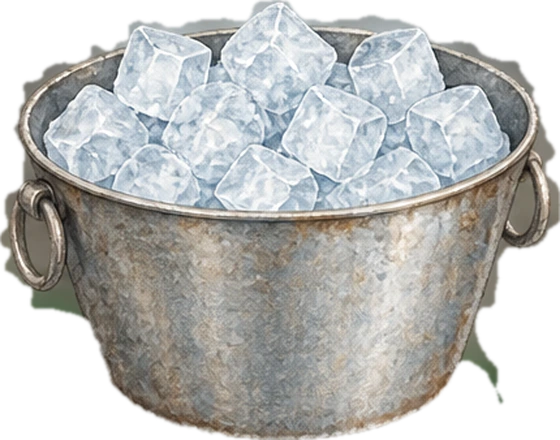
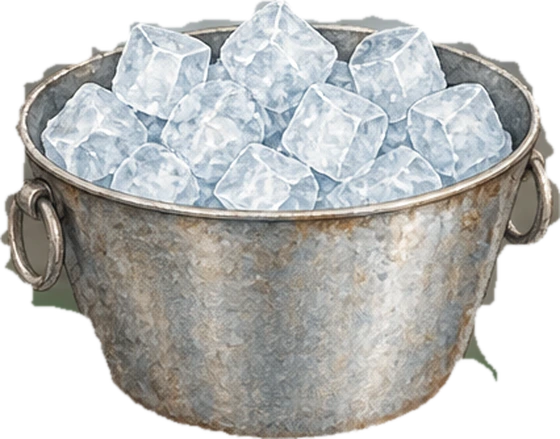
feat: realistic backgrounds and Codex equipment art for all activities, ice bath labels

diff --git a/components/minigames/SolubilityBottle.tsx b/components/minigames/SolubilityBottle.tsx
@@ -1,6 +1,6 @@
 'use client';
 
-import { StageBg } from '@/components/ui';
+import { GlassG, StageBg } from '@/components/ui';
 import { useEffect, useRef, useState } from 'react';
 import type { InvestigateProps } from '@/game/minigameTypes';
 import type { Substance } from '@/game/types';
@@ -23,27 +23,18 @@ const inRect = (px: number, py: number, r: { x: number; y: number; w: number; h:
 
 type Drag = { kind: 'spoon' | 'bottle'; x: number; y: number; dx: number; dy: number };
 
-function Icon({ s, size }: { s: Substance; size: number }) {
-  return (
-    // eslint-disable-next-line @next/next/no-img-element
-    <img src={`/assets/items/${s.id}.webp`} alt="" width={size} height={size}
-      onError={e => { e.currentTarget.style.display = 'none'; }}
-      style={{ position: 'absolute', inset: 0, width: size, height: size, objectFit: 'contain', pointerEvents: 'none' }} />
-  );
-}
-
 function BottleView({ b, s, stirring, x, y }: { b: Bottle; s: Substance; stirring: boolean; x: number; y: number }) {
   const settledH = Math.min(90, b.settled * 45);
   const specks = Math.round(b.pending / SCOOP_G);
   return (
     <svg width={HOME.w} height={HOME.h} viewBox="0 0 180 300" style={{ position: 'absolute', left: x, top: y, pointerEvents: 'none' }}>
-      <rect x="20" y="70" width="140" height="220" rx="18" fill="#cfe9f7" fillOpacity=".25" stroke="#e6f4fb" strokeWidth="4" />
-      <rect x="55" y="30" width="70" height="44" rx="6" fill="#cfe9f7" fillOpacity=".25" stroke="#e6f4fb" strokeWidth="4" />
-      <rect x="24" y="130" width="132" height="156" rx="14" fill="#5aa9e6" fillOpacity={0.55} />
-      <rect x="26" y={284 - settledH} width="128" height={settledH} rx="8" fill={s.color} />
-      {Array.from({ length: specks }).map((_, i) => (
-        <circle key={i} cx={50 + ((i * 37) % 80)} cy={140 + ((i * 23) % 60)} r="4" fill={s.color} />
-      ))}
+      <GlassG name="bottle" x={15} y={8} w={150} h={288}>
+        <rect x="0" y="130" width="180" height="170" fill="#5aa9e6" fillOpacity={0.6} />
+        <rect x="0" y={282 - settledH} width="180" height={settledH + 2} fill={s.color} />
+        {Array.from({ length: specks }).map((_, i) => (
+          <circle key={i} cx={50 + ((i * 37) % 80)} cy={140 + ((i * 23) % 60)} r="4" fill={s.color} />
+        ))}
+      </GlassG>
       <g style={{ transformOrigin: '90px 270px', animation: stirring ? 'sbspin .35s linear infinite' : undefined }}>
         <rect x="70" y="266" width="40" height="8" rx="4" fill="#fff" stroke="#556" />
       </g>
@@ -51,7 +42,7 @@ function BottleView({ b, s, stirring, x, y }: { b: Bottle; s: Substance; stirrin
   );
 }
 
-function Pad({ x, y, onRub, active, hint }: { x: number; y: number; onRub: () => void; active: boolean; hint: boolean }) {
+function Pad({ x, y, onRub, hint }: { x: number; y: number; onRub: () => void; hint: boolean }) {
   const acc = useRef(0);
   const last = useRef<{ x: number; y: number } | null>(null);
   const [fill, setFill] = useState(0);
@@ -62,7 +53,7 @@ function Pad({ x, y, onRub, active, hint }: { x: number; y: number; onRub: () =>
   const end = () => { last.current = null; };
   return (
     <div
-      style={{ position: 'absolute', left: x, top: y, width: 220, height: 90, touchAction: 'none', cursor: 'grab' }}
+      style={{ position: 'absolute', left: x, top: y, width: 220, height: 130, touchAction: 'none', cursor: 'grab' }}
       onPointerDown={e => { e.currentTarget.setPointerCapture(e.pointerId); last.current = pt(e); }}
       onPointerMove={e => {
         if (!last.current) return;
@@ -74,11 +65,10 @@ function Pad({ x, y, onRub, active, hint }: { x: number; y: number; onRub: () =>
       }}
       onPointerUp={end} onPointerCancel={end} onLostPointerCapture={end}
     >
-      <svg width="220" height="90" viewBox="0 0 220 90">
-        <rect x="6" y="30" width="208" height="54" rx="12" fill="#3b4256" stroke={active ? '#fde047' : '#8792ad'} strokeWidth="3" />
-        <ellipse cx="110" cy="30" rx="70" ry="10" fill="#565f7a" />
-        <rect x="24" y="66" width="172" height="8" rx="4" fill="#222735" />
-        <rect x="24" y="66" width={172 * fill} height="8" rx="4" fill="#fde047" />
+      <svg width="220" height="130" viewBox="0 0 220 130" style={{ overflow: 'visible' }}>
+        <image href="/assets/items/stirrer.webp" x="5" y="-30" width="210" height="152" pointerEvents="none" />
+        <rect x="34" y="112" width="152" height="8" rx="4" fill="#222735" />
+        <rect x="34" y="112" width={152 * fill} height="8" rx="4" fill="#fde047" />
         {hint && (
           <g style={{ animation: 'sbnudge 1s ease-in-out infinite' }}>
             <path d="M70 46 Q110 8 150 46" fill="none" stroke="#fde047" strokeWidth="4" strokeLinecap="round" />
@@ -228,7 +218,7 @@ export function SolubilityBottle({ targets, config, onDone }: InvestigateProps) 
               const v = rec[t === 20 ? 'r20' : 'r60'];
               return (
                 <div key={t} className="rounded-lg px-4 py-2 text-lg font-semibold"
-                  style={{ background: v === undefined ? '#ffffff14' : '#16a34a', border: '2px solid #ffffff33' }}>
+                  style={{ background: v === undefined ? 'rgba(14,28,42,.92)' : '#16a34a', border: '2px solid rgba(255,255,255,.4)' }}>
                   {t} ℃ · {v === undefined ? '?' : `${v.toFixed(1)} g`}
                 </div>
               );
@@ -237,9 +227,11 @@ export function SolubilityBottle({ targets, config, onDone }: InvestigateProps) 
 
           {/* 가루 통 + 약숟가락 */}
           <div className="absolute" style={{ left: 100, top: 470, width: 130, height: 120 }}>
-            <div style={{ position: 'absolute', inset: 0, background: '#ffffff18', border: '3px solid #ffffff66', borderRadius: '10px 10px 24px 24px' }} />
-            <div style={{ position: 'absolute', left: 10, right: 10, bottom: 8, height: 60, background: s.color, borderRadius: '6px 6px 18px 18px' }} />
-            <Icon s={s} size={130} />
+            <svg width="130" height="120" viewBox="0 0 130 120" style={{ position: 'absolute', inset: 0 }}>
+              <GlassG name="beaker-s" x={10} y={0} w={104} h={120}>
+                <rect x="0" y="62" width="130" height="60" fill={s.color} />
+              </GlassG>
+            </svg>
             <div className="absolute -bottom-9 w-full text-center text-lg font-semibold">{s.name}</div>
           </div>
           <div
@@ -248,9 +240,8 @@ export function SolubilityBottle({ targets, config, onDone }: InvestigateProps) 
             onPointerUp={endDrag(true)} onPointerCancel={endDrag(false)} onLostPointerCapture={() => setDrag(null)}
           >
             <svg width="170" height="130" viewBox="0 0 170 130">
-              <rect x="70" y="60" width="90" height="10" rx="5" fill="#cbd5e1" transform="rotate(-25 70 60)" />
-              <ellipse cx="50" cy="80" rx="34" ry="20" fill="#e2e8f0" stroke="#94a3b8" strokeWidth="3" />
-              <ellipse cx="50" cy="74" rx="26" ry="10" fill={s.color} />
+              <image href="/assets/items/spoon.webp" x="0" y="-8" width="170" height="138" />
+              <ellipse cx="32" cy="106" rx="17" ry="6" fill={s.color} opacity="0.95" />
             </svg>
             {scooped === 0 && !drag && (
               <svg width="120" height="40" viewBox="0 0 120 40" style={{ position: 'absolute', left: 140, top: 40, animation: 'sbnudge 1s ease-in-out infinite' }}>
@@ -267,14 +258,15 @@ export function SolubilityBottle({ targets, config, onDone }: InvestigateProps) 
 
           {/* 60 ℃ 물 비커 */}
           <div style={{ position: 'absolute', left: BEAKER.x, top: BEAKER.y, width: BEAKER.w, height: BEAKER.h }}>
-            <svg width={BEAKER.w} height={BEAKER.h} viewBox="0 0 260 290">
-              <rect x="10" y="60" width="240" height="220" rx="14" fill="#f97316" fillOpacity=".32" stroke="#ffd7b0" strokeWidth="5" />
-              <rect x="14" y="90" width="232" height="186" rx="10" fill="#fb923c" fillOpacity=".5" />
-              {[60, 120, 190].map((cx, i) => (
-                <path key={i} d={`M${cx} 50 q-10 -16 0 -30 q10 -14 0 -28`} fill="none" stroke="#ffffff88" strokeWidth="4" strokeLinecap="round" style={{ animation: `sbpulse ${1.2 + i * 0.3}s infinite` }} />
+            <svg width={BEAKER.w} height={BEAKER.h} viewBox="0 0 260 290" style={{ overflow: 'visible' }}>
+              <GlassG name="beaker-l" x={10} y={6} w={240} h={284}>
+                <rect x="0" y="90" width="260" height="200" fill="#fb923c" fillOpacity=".62" />
+              </GlassG>
+              {[80, 130, 180].map((cx, i) => (
+                <path key={i} d={`M${cx} 30 q-10 -16 0 -30 q10 -14 0 -28`} fill="none" stroke="#ffffffaa" strokeWidth="4" strokeLinecap="round" style={{ animation: `sbpulse ${1.2 + i * 0.3}s infinite` }} />
               ))}
             </svg>
-            <div className="absolute bottom-3 w-full text-center text-2xl font-bold">60 ℃</div>
+            <div className="absolute w-full text-center text-3xl font-black" style={{ bottom: 70, textShadow: '0 2px 6px #000, 0 0 12px #000' }}>60 ℃</div>
           </div>
           {canDip && !drag && (
             <svg width="120" height="50" viewBox="0 0 120 50" style={{ position: 'absolute', left: 620, top: 400, animation: 'sbnudge 1s ease-in-out infinite' }}>
@@ -293,13 +285,13 @@ export function SolubilityBottle({ targets, config, onDone }: InvestigateProps) 
             onPointerDown={canDip ? startDrag('bottle', HOME.x, HOME.y) : undefined} onPointerMove={moveDrag}
             onPointerUp={endDrag(true)} onPointerCancel={endDrag(false)} onLostPointerCapture={() => setDrag(null)}
           />
-          <div className="absolute text-center text-xl font-semibold" style={{ left: HOME.x, top: HOME.y + HOME.h + 100, width: HOME.w + 40 }}>
+          <div className="absolute text-center text-xl font-bold rounded-xl px-3 py-1" style={{ left: HOME.x - 40, top: HOME.y - 52, width: HOME.w + 80, background: 'rgba(14,28,42,.92)', border: '1px solid rgba(255,255,255,.35)' }}>
             <span className="text-slate-300">넣은 양</span> {total.toFixed(1)} g · <span className="text-slate-300">녹은 양</span> {bottle.dissolved.toFixed(1)} g
           </div>
 
           {/* 자석 젓개 판 (병 아래, 비커 아래) */}
-          <Pad x={HOME.x - 20} y={HOME.y + HOME.h + 6} onRub={stirOnce} active={stirring} hint={bottle.pending > 0} />
-          <Pad x={BEAKER.x + 20} y={BEAKER.y + BEAKER.h + 6} onRub={stirOnce} active={stirring} hint={dipped && bottle.pending > 0} />
+          <Pad x={HOME.x - 20} y={HOME.y + HOME.h + 6} onRub={stirOnce} hint={bottle.pending > 0} />
+          <Pad x={BEAKER.x + 20} y={BEAKER.y + BEAKER.h + 6} onRub={stirOnce} hint={dipped && bottle.pending > 0} />
 
           <div className="absolute bottom-3 left-8 text-base text-slate-400">Space 넣기 · S 젓기 · Enter 담그기</div>
         </>

diff --git a/components/minigames/Recrystal.tsx b/components/minigames/Recrystal.tsx
@@ -1,6 +1,6 @@
 'use client';
 
-import { StageBg } from '@/components/ui';
+import { GlassG, StageBg } from '@/components/ui';
 import { useEffect, useRef, useState } from 'react';
 import type { SeparateProps } from '@/game/minigameTypes';
 import type { Substance } from '@/game/types';
@@ -37,18 +37,19 @@ function Arrow({ x, y, rot = 0 }: { x: number; y: number; rot?: number }) {
 function Beaker({ sim, subs, x, y, tilt, rod }: { sim: Sim; subs: Substance[]; x: number; y: number; tilt: number; rod: number }) {
   return (
     <svg width={BW} height={BH} viewBox={`0 0 ${BW} ${BH}`} style={{ position: 'absolute', left: x, top: y, transform: `rotate(${tilt}deg)`, transformOrigin: '50% 90%', pointerEvents: 'none', transition: 'transform .5s' }}>
-      <rect x="10" y="30" width="200" height="232" rx="12" fill="#cfe9f7" fillOpacity=".2" stroke="#e6f4fb" strokeWidth="5" />
-      <rect x="14" y="110" width="192" height="148" rx="8" fill="#5aa9e6" fillOpacity=".5" />
-      {subs.map((s, i) => (
-        <g key={s.id}>
-          {Array.from({ length: Math.ceil(solidLeft(sim, i) * 3) }).map((_, k) => (
-            <circle key={k} cx={30 + ((k * 41 + i * 17) % 150)} cy={240 - ((k * 13 + i * 7) % 22)} r="5" fill={i === 0 ? '#f4f1ea' : '#b8c4cc'} />
-          ))}
-          {Array.from({ length: Math.ceil(sim.crystal[i] * 3) }).map((_, k) => (
-            <path key={k} d={`M${28 + ((k * 37) % 150)} ${246 - ((k * 11) % 26)} l7 -12 l7 12 l-7 12 z`} fill="#eef7ff" stroke="#9cc7e8" strokeWidth="1.5" />
-          ))}
-        </g>
-      ))}
+      <GlassG name="beaker-l" x={4} y={14} w={212} h={252}>
+        <rect x="0" y="110" width="220" height="156" fill="#5aa9e6" fillOpacity=".55" />
+        {subs.map((s, i) => (
+          <g key={s.id}>
+            {Array.from({ length: Math.ceil(solidLeft(sim, i) * 3) }).map((_, k) => (
+              <circle key={k} cx={34 + ((k * 41 + i * 17) % 150)} cy={240 - ((k * 13 + i * 7) % 22)} r="5" fill={i === 0 ? '#f4f1ea' : '#b8c4cc'} />
+            ))}
+            {Array.from({ length: Math.ceil(sim.crystal[i] * 3) }).map((_, k) => (
+              <path key={k} d={`M${32 + ((k * 37) % 150)} ${246 - ((k * 11) % 26)} l7 -12 l7 12 l-7 12 z`} fill="#eef7ff" stroke="#9cc7e8" strokeWidth="1.5" />
+            ))}
+          </g>
+        ))}
+      </GlassG>
       <g style={{ transform: `rotate(${rod}deg)`, transformOrigin: '110px 30px' }}>
         <rect x="104" y="-40" width="12" height="230" rx="6" fill="#dbeafe" fillOpacity=".9" stroke="#93c5fd" strokeWidth="2" />
       </g>
@@ -61,7 +62,7 @@ function Graph({ sim, subs, cfg }: { sim: Sim; subs: Substance[]; cfg: ReturnTyp
   const X = (t: number) => L + (t / 80) * (W - L - R);
   const Y = (g: number) => H - Bt - (Math.min(g, ymax) / ymax) * (H - Bt - T);
   return (
-    <svg width={W} height={H} viewBox={`0 0 ${W} ${H}`} className="absolute rounded-xl" style={{ left: 700, top: 80, background: '#ffffff12' }}>
+    <svg width={W} height={H} viewBox={`0 0 ${W} ${H}`} className="absolute rounded-xl" style={{ left: 700, top: 80, background: 'rgba(14,28,42,.92)' }}>
       {[0, 20, 40, 60, 80].map(t => (<g key={t}><line x1={X(t)} x2={X(t)} y1={T} y2={H - Bt} stroke="#ffffff22" /><text x={X(t)} y={H - Bt + 20} textAnchor="middle" fill="#cbd5e1" fontSize="15">{t}</text></g>))}
       {[0, 50, 100, 150].map(g => (<g key={g}><line x1={L} x2={W - R} y1={Y(g)} y2={Y(g)} stroke="#ffffff22" /><text x={L - 8} y={Y(g) + 5} textAnchor="end" fill="#cbd5e1" fontSize="15">{g}</text></g>))}
       <text x={W / 2} y={H - 6} textAnchor="middle" fill="#e2e8f0" fontSize="15">온도 (℃)</text>
@@ -217,7 +218,7 @@ export function Recrystal({ mixture, obtains, leaves, config, onDone }: Separate
 
       {/* 온도 게이지 */}
       <div className="absolute" style={{ left: 60, top: 350, width: 40, height: 270 }}>
-        <div style={{ position: 'absolute', inset: 0, background: '#ffffff18', border: '3px solid #ffffff66', borderRadius: 20 }} />
+        <div style={{ position: 'absolute', inset: 0, background: 'rgba(14,28,42,.9)', border: '3px solid rgba(255,255,255,.5)', borderRadius: 20 }} />
         <div style={{ position: 'absolute', left: 6, right: 6, bottom: 6, height: `${Math.max(2, (sim.temp / cfg.maxTemp) * 100)}%`, maxHeight: 258, background: 'linear-gradient(#ef4444,#f59e0b)', borderRadius: 14 }} />
         <div className="absolute w-[100px] text-center text-2xl font-bold" style={{ left: -30, top: -42 }}>{Math.round(sim.temp)} ℃</div>
       </div>
@@ -228,15 +229,9 @@ export function Recrystal({ mixture, obtains, leaves, config, onDone }: Separate
         onPointerDown={e => { if (phase === 'heat' && !locked()) { e.currentTarget.setPointerCapture(e.pointerId); setHeat(true); } }}
         onPointerUp={() => setHeat(false)} onPointerCancel={() => setHeat(false)} onLostPointerCapture={() => setHeat(false)}
       >
-        <svg width="300" height="130" viewBox="0 0 300 130">
-          <rect x="40" y="10" width="220" height="14" rx="4" fill="#94a3b8" />
-          <rect x="60" y="24" width="8" height="70" fill="#94a3b8" /><rect x="232" y="24" width="8" height="70" fill="#94a3b8" />
-          <rect x="90" y="70" width="120" height="50" rx="12" fill="#475569" stroke="#cbd5e1" strokeWidth="3" />
-          <rect x="140" y="56" width="20" height="16" fill="#cbd5e1" />
-          {phase === 'heat' && (
-            <path d="M150 12 q-26 20 -6 40 q6 -10 6 -14 q0 10 10 14 q20 -18 -10 -40z" fill="#f97316" stroke="#fde047" strokeWidth="3"
-              style={{ transformOrigin: '150px 52px', animation: 'rcflame .3s infinite', opacity: heatUI ? 1 : 0.35 }} />
-          )}
+        <svg width="300" height="130" viewBox="0 0 300 130" style={{ overflow: 'visible' }}>
+          {phase === 'heat' && <ellipse cx="150" cy="-18" rx="90" ry="12" fill="#ff8a3c" style={{ animation: 'rcflame .4s infinite', opacity: heatUI ? 0.95 : 0.3 }} />}
+          <image href="/assets/items/hotplate.webp" x="20" y="-62" width="260" height="163" pointerEvents="none" />
         </svg>
       </div>
       {phase === 'heat' && !heated && <Arrow x={280} y={660} rot={0} />}
@@ -265,13 +260,9 @@ export function Recrystal({ mixture, obtains, leaves, config, onDone }: Separate
 
       {/* 얼음 비커 */}
       <div style={{ position: 'absolute', left: ICE.x, top: ICE.y, width: ICE.w, height: ICE.h }}>
-        <svg width={ICE.w} height={ICE.h} viewBox="0 0 290 240">
-          <rect x="6" y="6" width="278" height="230" rx="16" fill="#7dd3fc" fillOpacity=".25" stroke="#bae6fd" strokeWidth="5" />
-          {[[30, 30], [100, 24], [180, 34], [235, 26], [60, 90], [200, 100]].map(([cx, cy], i) => (
-            <rect key={i} x={cx} y={cy} width="44" height="38" rx="6" fill="#e0f2fe" fillOpacity=".8" stroke="#7dd3fc" strokeWidth="2" transform={`rotate(${i * 13} ${cx + 22} ${cy + 19})`} />
-          ))}
-        </svg>
-        <div className="absolute bottom-2 w-full text-center text-lg font-bold">얼음물</div>
+        {/* eslint-disable-next-line @next/next/no-img-element */}
+        <img src="/assets/items/icebucket.webp" alt="" draggable={false} style={{ position: 'absolute', left: 0, top: 0, width: ICE.w, pointerEvents: 'none' }} />
+        <div className="absolute w-full text-center text-2xl font-black" style={{ bottom: -40, color: '#fff', textShadow: '0 0 6px #000, 0 2px 4px #000' }}>얼음물</div>
       </div>
       {phase === 'heat' && dissolvedAll && !drag && <Arrow x={330 + 60} y={520} rot={10} />}
       {phase === 'heat' && drag && <div style={{ position: 'absolute', left: ICE.x - 10, top: ICE.y - 10, width: ICE.w + 20, height: ICE.h + 20, border: '4px dashed #fde047', borderRadius: 24, animation: 'rcpulse .8s infinite' }} />}
@@ -279,13 +270,15 @@ export function Recrystal({ mixture, obtains, leaves, config, onDone }: Separate
       {/* 거름 장치 */}
       <div style={{ position: 'absolute', left: FUN.x, top: FUN.y, width: FUN.w, height: FUN.h }}>
         <svg width={FUN.w} height={FUN.h + 200} viewBox={`0 0 ${FUN.w} ${FUN.h + 200}`}>
-          <path d="M10 20 L230 20 L140 120 L140 170 L100 170 L100 120 Z" fill="#cfe9f7" fillOpacity=".25" stroke="#e6f4fb" strokeWidth="5" />
-          <path d="M40 24 L200 24 L120 104 Z" fill="#fffbe8" stroke="#d6c9a0" strokeWidth="3" />
-          {phase === 'result' && Array.from({ length: Math.ceil(fr.crystalG * 2.5) }).map((_, k) => (
-            <path key={k} d={`M${70 + ((k * 23) % 80)} ${44 + ((k * 7) % 22)} l6 -10 l6 10 l-6 10 z`} fill={fr.otherOnPaperG > 0.3 && k % 5 === 0 ? '#b8c4cc' : '#eef7ff'} stroke="#9cc7e8" strokeWidth="1.5" />
-          ))}
-          <rect x="30" y="230" width="180" height="150" rx="14" fill="#cfe9f7" fillOpacity=".2" stroke="#e6f4fb" strokeWidth="5" />
-          {(phase === 'pour' || phase === 'result') && <rect x="34" y={phase === 'result' ? 290 : 350} width="172" height={phase === 'result' ? 86 : 26} rx="8" fill="#5aa9e6" fillOpacity=".55" style={{ transition: 'all 1.2s' }} />}
+          <GlassG name="filterfunnel" x={20} y={0} w={200} h={270}>
+            <polygon points="34,8 206,8 122,110" fill="#fff6dc" />
+            {phase === 'result' && Array.from({ length: Math.ceil(fr.crystalG * 2.5) }).map((_, k) => (
+              <path key={k} d={`M${86 + ((k * 23) % 60)} ${30 + ((k * 7) % 30)} l6 -10 l6 10 l-6 10 z`} fill={fr.otherOnPaperG > 0.3 && k % 5 === 0 ? '#b8c4cc' : '#eef7ff'} stroke="#9cc7e8" strokeWidth="1.5" />
+            ))}
+          </GlassG>
+          <GlassG name="beaker-s" x={40} y={226} w={160} h={150}>
+            {(phase === 'pour' || phase === 'result') && <rect x="40" y={phase === 'result' ? 296 : 350} width="170" height={phase === 'result' ? 80 : 26} fill="#5aa9e6" fillOpacity=".7" style={{ transition: 'all 1.2s' }} />}
+          </GlassG>
         </svg>
         {phase === 'result' && <div className="absolute w-full text-center text-lg font-bold" style={{ top: FUN.h + 215 }}>{leaves[0]?.name} 용액</div>}
       </div>

diff --git a/components/minigames/DensityCup.tsx b/components/minigames/DensityCup.tsx
@@ -1,13 +1,13 @@
 'use client';
 
-import { StageBg } from '@/components/ui';
+import { GlassG, StageBg } from '@/components/ui';
 import { useEffect, useRef, useState } from 'react';
 import type { InvestigateProps } from '@/game/minigameTypes';
 import { playSfx } from '@/game/audio';
 import { calcStars, flowRate, labelCorrect, layerOrder, mixDelta, settle } from '@/game/minigames/densityCup';
 
 const CUP = { x: 540, y: 320, w: 200, h: 340 };
-const PIVOT = [{ x: 500, y: 300 }, { x: 780, y: 300 }];
+const PIVOT = [{ x: 470, y: 300 }, { x: 810, y: 300 }];
 const wallX = [CUP.x + 10, CUP.x + CUP.w - 10];
 const TAG_HOME = [{ x: 1000, y: 380 }, { x: 1000, y: 480 }];
 const now = () => performance.now();
@@ -189,16 +189,13 @@ export function DensityCup({ targets, config, onDone }: InvestigateProps) {
 
       <div className="absolute w-full text-center text-xl font-bold" style={{ top: 40, minHeight: 32, color: '#ffe082' }}>{msg}</div>
 
-      {/* 탁자 */}
-      <div className="absolute" style={{ left: 200, top: 660, width: 880, height: 14, background: '#5d4037', borderRadius: 6 }} />
-
-      {/* 컵 */}
-      <div className="absolute" style={{ left: CUP.x, top: CUP.y - 20, width: CUP.w, height: CUP.h + 20, borderLeft: '4px solid rgba(220,240,255,.85)', borderRight: '4px solid rgba(220,240,255,.85)', borderBottom: '4px solid rgba(220,240,255,.85)', borderRadius: '0 0 18px 18px', background: 'rgba(200,230,255,.07)' }} />
       <svg className="absolute" style={{ left: 0, top: 0, pointerEvents: 'none' }} width="1280" height="800">
+        <GlassG name="glass" x={CUP.x - 8} y={CUP.y - 14} w={CUP.w + 16} h={CUP.h + 30}>
         <g style={{ filter: `blur(${s.mix * 5}px)` }}>
           {order.map((sub, k) => { const r = layerRect(k); return r.h > 0 && <rect key={sub.id} x={CUP.x + 4} y={r.y0} width={CUP.w - 8} height={r.h} fill={sub.color} opacity=".85" />; })}
         </g>
         {s.amt[0] + s.amt[1] > 0 && <rect x={CUP.x + 4} y={surfaceY} width={CUP.w - 8} height={CUP.y + CUP.h - surfaceY} fill="#f3ecd0" opacity={s.mix * 0.8} />}
+        </GlassG>
         {/* 흐르는 줄기 (벽면을 타고) */}
         {[0, 1].map(i => flowRate(s.tilt[i]) > 0 && s.amt[i] < cap && (
           <path key={i} d={`M${PIVOT[i].x} ${PIVOT[i].y} Q${wallX[i]} ${PIVOT[i].y} ${wallX[i]} ${CUP.y + 30} L${wallX[i]} ${surfaceY}`} fill="none" stroke={bottleColor(i)} strokeWidth={4 + flowRate(s.tilt[i]) * 14} opacity=".9" strokeLinecap="round" />
@@ -213,10 +210,11 @@ export function DensityCup({ targets, config, onDone }: InvestigateProps) {
           <div key={i} className="absolute" style={{ left: PIVOT[i].x, top: PIVOT[i].y, width: 0, height: 0, transform: `rotate(${left ? s.tilt[i] : -s.tilt[i]}deg)`, transformOrigin: '0 0' }}>
             <div onPointerDown={e => bottleDown(e, i)} onPointerMove={e => bottleMove(e, i)} onPointerUp={() => bottleUp(i)} onPointerCancel={() => bottleUp(i)} onLostPointerCapture={() => bottleUp(i)}
               style={{ position: 'absolute', left: -70, top: -10, width: 140, height: 230, cursor: 'grab', touchAction: 'none' }}>
-              <div style={{ position: 'absolute', left: 55, top: 10, width: 30, height: 34, background: 'rgba(230,240,255,.5)', border: '3px solid #cfd8dc', borderBottom: 'none' }} />
-              <div style={{ position: 'absolute', left: 15, top: 44, width: 110, height: 170, border: '3px solid #cfd8dc', borderRadius: '24px 24px 12px 12px', background: 'rgba(230,240,255,.15)', overflow: 'hidden' }}>
-                <div style={{ position: 'absolute', left: 0, right: 0, bottom: 0, height: `${(1 - s.amt[i] / cap) * 90}%`, background: bottleColor(i), opacity: 0.85 }} />
-              </div>
+              <svg width="140" height="230" viewBox="0 0 140 230" style={{ position: 'absolute', left: 0, top: 0, overflow: 'visible', pointerEvents: 'none' }}>
+                <GlassG name="flask" x={15} y={0} w={110} h={162}>
+                  <rect x="0" y={155 - (1 - s.amt[i] / cap) * 100} width="140" height={(1 - s.amt[i] / cap) * 100 + 4} fill={bottleColor(i)} opacity="0.9" />
+                </GlassG>
+              </svg>
             </div>
           </div>
         );

diff --git a/components/minigames/DensityBench.tsx b/components/minigames/DensityBench.tsx
@@ -216,13 +216,15 @@ export function DensityBench({ targets, config, onDone }: InvestigateProps) {
       <div className="absolute rounded-lg" style={{ left: TRAY.x0, top: TRAY.y0 + 20, width: TRAY.x1 - TRAY.x0, height: 130, border: '2px solid rgba(255,255,255,.4)', background: 'rgba(14,28,42,.88)' }} />
 
       {/* 눈금실린더 */}
-      <div className="absolute" style={{ left: TUBE.x0, top: TUBE.top, width: TUBE.x1 - TUBE.x0, height: TUBE.bottom - TUBE.top, border: '3px solid rgba(220,240,255,.85)', borderTop: 'none', borderRadius: '0 0 40px 40px', background: 'rgba(14,28,42,.7)' }}>
+      <div className="absolute" style={{ left: TUBE.x0, top: TUBE.top, width: TUBE.x1 - TUBE.x0, height: TUBE.bottom - TUBE.top, borderRadius: '0 0 40px 40px', overflow: 'hidden' }}>
         <div className="absolute left-0 right-0 bottom-0" style={{ height: (level - 0) * PX_PER_ML, background: 'linear-gradient(rgba(90,169,230,.75),rgba(60,130,200,.9))', transition: 'height .7s ease', borderRadius: '0 0 37px 37px' }}>
           <svg width={TUBE.x1 - TUBE.x0 - 6} height="14" style={{ position: 'absolute', top: -7, left: 0 }}>
             <path d={`M0 2 Q${(TUBE.x1 - TUBE.x0 - 6) / 2} 16 ${TUBE.x1 - TUBE.x0 - 6} 2`} fill="none" stroke="rgba(255,255,255,.9)" strokeWidth="2" />
           </svg>
         </div>
       </div>
+      {/* eslint-disable-next-line @next/next/no-img-element */}
+      <img src="/assets/items/cylinder.webp" alt="" draggable={false} className="absolute pointer-events-none" style={{ left: TUBE.x0 - 36, top: TUBE.top - 26, width: (TUBE.x1 - TUBE.x0) + 72, height: (TUBE.bottom - TUBE.top) + 62 }} />
       <svg className="absolute" style={{ left: 780, top: 0, filter: `blur(${blur}px)` }} width="100" height="800">
         {Array.from({ length: 11 }, (_, i) => i * 10).map(ml => (
           <g key={ml}>

diff --git a/PROGRESS.md b/PROGRESS.md
@@ -27,3 +27,10 @@
 - 확인 못 한 것: 소금물에 띄우기(FloatSieve) 완주, 크롬북 터치, 플레이 시간 실측(예상 12~14분), 최종 의뢰 처음부터 끝까지 한 번에.
 - 조정: 용해도 병 약숟가락 0.5 g→1 g (질산 칼륨 60 ℃까지 22번 → 11번), 눈높이 허용 폭 0.15→0.3, 실행 중 HUD 숨김(조사·분리 화면).
 - 알려진 아쉬움: 장치 그림은 SVG 도형(Codex 그림 아님), NPC는 정사각 초상만, 효과음 3종뿐, 미니게임 화면 어두운 단색 배경. 피드백 후 그림 교체 예정.
+
+## 2026-09-30 그림 교체 2차
+- 얻은 물질: 트럼프 카드 비율 카드(`components/CardFace.tsx`) + 컬렉션 북(`CollectionBook.tsx`, `bg/book.webp`) 끼워 넣기 연출. 도감 버튼도 같은 북. 퀴즈 정답에 종이 조각·"정답!" 연출.
+- 모든 조사·분리 화면에 Codex 배경(`bg/lab|labheat|kitchen|farmtable`)과 소품 그림(`items/`: 유리 도구 12종, 저울·가열판·얼음통·약숟가락·젓개판, 볍씨·쭉정이). 유리 안 액체는 `game/glassShapes.json`(행별 안쪽 폭)으로 clipPath 처리하는 `GlassG`(components/ui.tsx).
+- 시트 후처리 스크립트: `scripts/cutout_sheet.py`(불투명 소품), `scripts/cutout_glass.py`(유리, 안쪽 투명화 + glassShapes.json 생성). 원본 `docs/assets-source/*-sheet.png`.
+- 증류: 얼음물(시험관을 담가 기체를 식힘)·얼음 넣기(미지근해지면 깜빡임) 라벨 추가.
+- 주의: SVG `<mask>` 안 그림은 정적 요소에서 다시 그려지지 않는 문제가 있어 clipPath 방식으로 바꿈.
